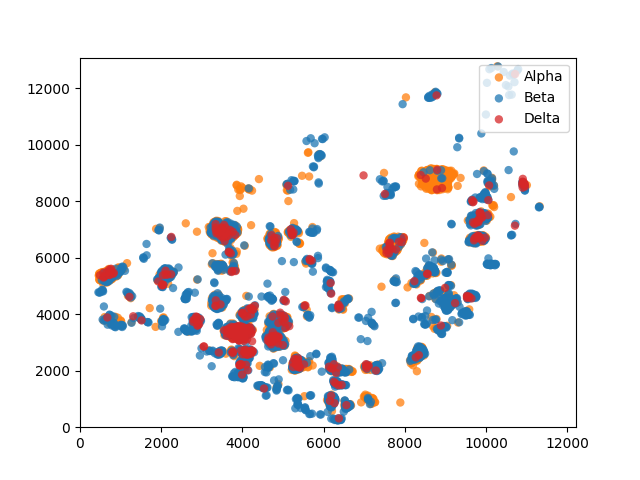
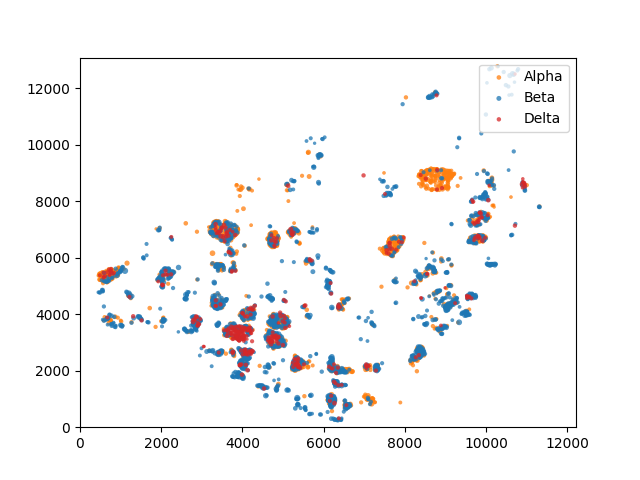
label

diff --git a/explain_label.py b/explain_label.py
@@ -33,8 +33,8 @@ def scatter_plot(nodes, dataset, filename):
     x = np.asarray(xmin + xmax) / 2
     y = np.asarray(ymin + ymax) / 2
     scale = np.asarray(xmax + ymax - xmin - ymin) / 2
-    x_sz = 15000
-    y_sz = 15000
+    x_sz = 22000
+    y_sz = 12000
 
     fig, ax = plt.subplots()
 
@@ -60,8 +60,8 @@ def scatter_plot(nodes, dataset, filename):
 
 def box_plot(nodes, dataset, filename):
     xmin, xmax, ymin, ymax = np.array(dataset.loc)
-    x_sz = 15000
-    y_sz = 15000
+    x_sz = 22000
+    y_sz = 12000
 
     fig, ax = plt.subplots()
     colors = ['y', 'b', 'r']
@@ -92,9 +92,10 @@ def box_plot(nodes, dataset, filename):
     plt.show()
 
 
-def view_local(ran, nodes, dataset, filename):
+def view_local(islet, nodes, dataset, filename):
+    ran, shape = islet
     xmin, xmax, ymin, ymax = np.array(dataset.loc)
-    fig, ax = plt.subplots(figsize=(10, 15))
+    fig, ax = plt.subplots(figsize=shape)
     colors = ['y', 'b', 'r']
     cells = [[], [], []]
 
@@ -152,14 +153,13 @@ def main(parser):
     '''
 
     # RESULT: k = 6 for embedding, 40 for location
-    k = 40
+    k = 50
     verbose = False
-    '''
+
+    # x = np.array(data.loc).T[np.where(data.y == args.label)[0]]
     with torch.no_grad():
         x = model.encode(data.X, data.edge_index)
     x = x[np.where(data.y == args.label)[0]]
-    '''
-    x = np.array(data.loc).T[np.where(data.y == args.label)[0]]
 
     kmeans = KMeans(n_clusters=k, init='k-means++')
     kmeans.fit(x)
@@ -178,7 +178,7 @@ def main(parser):
     marker_strength = np.zeros(data.num_features)
 
     for node_idx in indices:
-        node_idx = int(node_idx)
+        node_idx = int(node_idx) + data.sizes[0]
 
         try:
             node_feat_mask, edge_mask = explainer.explain_node(
@@ -202,7 +202,34 @@ def main(parser):
     scatter_plot(all_nodes, data, 'scatter_{}'.format(k))
     box_plot(all_nodes, data, 'box_{}'.format(k))
 
-    view_local((4500, 5200, 2700, 4200), all_nodes, data, 'islets_{}'.format(k))
+    '''
+    islets = [
+        [(4500, 5200, 2700, 4200), (10, 15)],
+        [(2500, 3100, 3300, 4000), (10, 12)],
+        [(9500, 10200, 6400, 7700), (10, 15)],
+        [(3600, 4400, 1500, 3000), (10, 15)],
+        [(7300, 8100, 6000, 6800), (10, 10)],
+        [(8200, 9300, 8300, 9300), (10, 8)],
+        [(6000, 6800, 200, 1700), (10, 15)],
+        [(6000, 6800, 1800, 2600), (10, 10)],
+        [(3100, 4000, 6500, 7400), (10, 10)],
+        [(400, 1200, 5000, 5800), (10, 10)]
+    ]
+    '''
+    islets = [
+        [(900, 1300, 500, 1000), (10, 10)],
+        [(1400, 2200, 1500, 2100), (10, 10)],
+        [(2300, 2900, 800, 1800), (10, 15)],
+        [(3600, 4700, 1800, 2600), (10, 8)],
+        [(5200, 6100, 5700, 6400), (10, 8)],
+        [(8300, 9100, 6100, 6900), (10, 10)],
+        [(15000, 16100, 6200, 7600), (10, 12)],
+        [(13000, 14300, 8400, 9300), (10, 8)],
+        [(13200, 15200, 2500, 3300), (10, 6)],
+        [(13500, 14100, 3500, 3900), (10, 10)]
+    ]
+    for idx, islet in enumerate(islets):
+        view_local(islet, all_nodes, data, 'islet_{}_{}'.format(idx, k))
     print("Total marker strength:", marker_strength)
 
 
@@ -217,7 +244,7 @@ if __name__ == "__main__":
     parser.add_argument(
         '-l', '--label',
         type=int,
-        default=1,
+        default=0,
         help='Index of label to explain'
     )
     parser.add_argument(

diff --git a/dataset.py b/dataset.py
@@ -207,5 +207,67 @@ def visualize_dataset():
             scatter_plot(df, filename)
 
 
+def view_islet(filename, ran, id, shape=(10, 15)):
+    locations = ['XMin', 'XMax', 'YMin', 'YMax']
+    celltype = ['Alpha', 'Beta', 'Delta']
+
+    df = pd.read_csv((os.path.join('data/', filename)))
+    df = df[locations + celltype]
+
+    df = df.loc[(df['Alpha'] == 1) | (df['Beta'] == 1) | (df['Delta'] == 1)]
+    fig, ax = plt.subplots(figsize=shape)
+    for tp, color in {'Alpha': 'y', 'Beta': 'b', 'Delta': 'r'}.items():
+        df_type = df.loc[df[tp] == 1]
+        cells = []
+        for idx, row in df_type.iterrows():
+            rect = Rectangle((row['XMin'], row['YMin']),
+                             row['XMax']-row['XMin'],
+                             row['YMax']-row['YMin'],
+                             facecolor=color, alpha=1)
+            cells.append(rect)
+        pc = PatchCollection(cells, match_original=True)
+        ax.add_collection(pc)
+
+    x1, x2, y1, y2 = ran
+    plt.xlim(x1, x2)
+    plt.ylim(y1, y2)
+    a = Patch(color='y', label='Alpha')
+    b = Patch(color='b', label='Beta')
+    d = Patch(color='r', label='Delta')
+    ax.legend(handles=[a, b, d], loc='upper right')
+    plt.savefig('plot/islet_{}_ran={}'.format(id, ran))
+    plt.show()
+
+
 if __name__ == "__main__":
-    visualize_dataset()
+    islets = [
+        [(4500, 5200, 2700, 4200), (10, 15)],
+        [(2500, 3100, 3300, 4000), (10, 12)],
+        [(9500, 10200, 6400, 7700), (10, 15)],
+        [(3600, 4400, 1500, 3000), (10, 15)],
+        [(7300, 8100, 6000, 6800), (10, 10)],
+        [(8200, 9300, 8300, 9300), (10, 8)],
+        [(6000, 6800, 200, 1700), (10, 15)],
+        [(6000, 6800, 1800, 2600), (10, 10)],
+        [(3100, 4000, 6500, 7400), (10, 10)],
+        [(400, 1200, 5000, 5800), (10, 10)]
+    ]
+    filename = 'ABHQ115-T2D-Islet.csv'
+    for idx in range(10):
+        view_islet(filename, islets[idx][0], idx, shape=islets[idx][1])
+
+    islets = [
+        [(900, 1300, 500, 1000), (10, 10)],
+        [(1400, 2200, 1500, 2100), (10, 10)],
+        [(2300, 2900, 800, 1800), (10, 15)],
+        [(3600, 4700, 1800, 2600), (10, 8)],
+        [(5200, 6100, 5700, 6400), (10, 8)],
+        [(8300, 9100, 6100, 6900), (10, 10)],
+        [(15000, 16100, 6200, 7600), (10, 12)],
+        [(13000, 14300, 8400, 9300), (10, 8)],
+        [(13200, 15200, 2500, 3300), (10, 6)],
+        [(13500, 14100, 3500, 3900), (10, 10)]
+    ]
+    filename = 'AFG1440-ND-Islet.csv'
+    for idx in range(10):
+        view_islet(filename, islets[idx][0], idx, shape=islets[idx][1])
